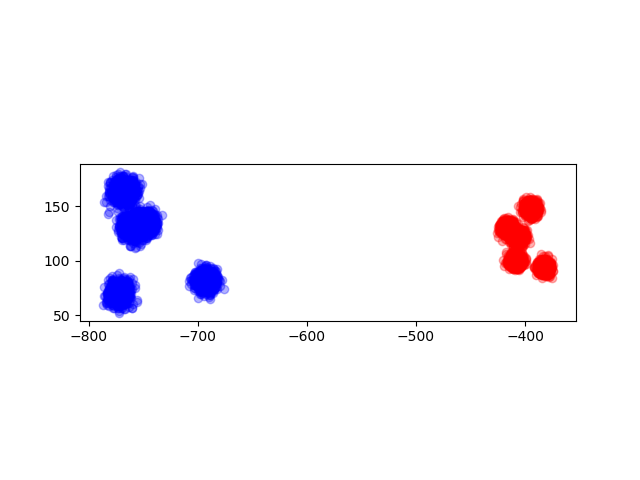
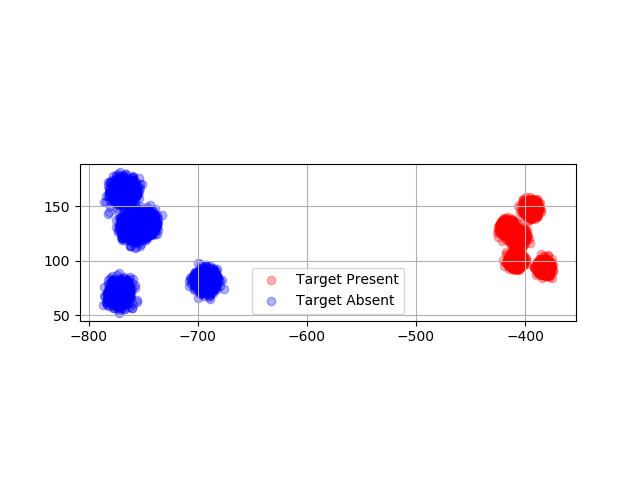
v1

diff --git a/CommensalRadar/plot_pca.py b/CommensalRadar/plot_pca.py
@@ -8,8 +8,10 @@ import matplotlib.pyplot as plt
 #setting up plot
 fig = plt.figure()
 ax = fig.add_subplot(111,projection='3d',aspect='auto')
-ax.scatter(pca_data[:int(len(pca_data)/2),0],pca_data[:int(len(pca_data)/2),1],pca_data[:int(len(pca_data)/2),2],color='r',alpha=0.3)
-ax.scatter(pca_data[int(len(pca_data)/2):,0],pca_data[int(len(pca_data)/2):,1],pca_data[int(len(pca_data)/2):,2],color='b',alpha=0.3)
+ax.scatter(pca_data[:int(len(pca_data)/2),0],pca_data[:int(len(pca_data)/2),1],pca_data[:int(len(pca_data)/2),2],color='r',alpha=0.3,label="Target Present")
+ax.scatter(pca_data[int(len(pca_data)/2):,0],pca_data[int(len(pca_data)/2):,1],pca_data[int(len(pca_data)/2):,2],color='b',alpha=0.3,label="Target Absent")
+plt.legend()
+plt.grid()
 
 pca_data=np.load('pca_data_2D.npy')
 print("pca_data.shape=",pca_data.shape)
@@ -18,9 +20,10 @@ import matplotlib.pyplot as plt
 #setting up plot
 fig = plt.figure()
 ax = fig.add_subplot(111,aspect='equal')
-ax.scatter(pca_data[:int(len(pca_data)/2),0],pca_data[:int(len(pca_data)/2),1],color='r',alpha=0.3)
-ax.scatter(pca_data[int(len(pca_data)/2):,0],pca_data[int(len(pca_data)/2):,1],color='b',alpha=0.3)
-
+ax.scatter(pca_data[:int(len(pca_data)/2),0],pca_data[:int(len(pca_data)/2),1],color='r',alpha=0.3,label="Target Present")
+ax.scatter(pca_data[int(len(pca_data)/2):,0],pca_data[int(len(pca_data)/2):,1],color='b',alpha=0.3,label="Target Absent")
+plt.legend()
+plt.grid()
 
 
 plt.show()

diff --git a/CommensalRadar/pca_code.py b/CommensalRadar/pca_code.py
@@ -311,9 +311,10 @@ import matplotlib.pyplot as plt
 #setting up plot
 fig = plt.figure()
 ax = fig.add_subplot(111,projection='3d',aspect='auto')
-ax.scatter(pca_data[:int(len(pca_data)/2),0],pca_data[:int(len(pca_data)/2),1],color='r',alpha=0.3)
-ax.scatter(pca_data[int(len(pca_data)/2):,0],pca_data[int(len(pca_data)/2):,1],color='b',alpha=0.3)
-
+ax.scatter(pca_data[:int(len(pca_data)/2),0],pca_data[:int(len(pca_data)/2),1],pca_data[:int(len(pca_data)/2),2],color='r',alpha=0.3,label="Target Present")
+ax.scatter(pca_data[int(len(pca_data)/2):,0],pca_data[int(len(pca_data)/2):,1],pca_data[int(len(pca_data)/2):,2],color='b',alpha=0.3,label="Target Absent")
+plt.legend()
+plt.grid()
 
 num_vec_to_keep = 2
 print("Keeping",num_vec_to_keep,"dimensions")
@@ -338,8 +339,10 @@ import matplotlib.pyplot as plt
 #setting up plot
 fig = plt.figure()
 ax = fig.add_subplot(111,aspect='equal')
-ax.scatter(pca_data[:int(len(pca_data)/2),0],pca_data[:int(len(pca_data)/2),1],color='r',alpha=0.3)
-ax.scatter(pca_data[int(len(pca_data)/2):,0],pca_data[int(len(pca_data)/2):,1],color='b',alpha=0.3)
+ax.scatter(pca_data[:int(len(pca_data)/2),0],pca_data[:int(len(pca_data)/2),1],color='r',alpha=0.3,label="Target Present")
+ax.scatter(pca_data[int(len(pca_data)/2):,0],pca_data[int(len(pca_data)/2):,1],color='b',alpha=0.3,label="Target Absent")
+plt.legend()
+plt.grid()
 
 
 plt.show()
